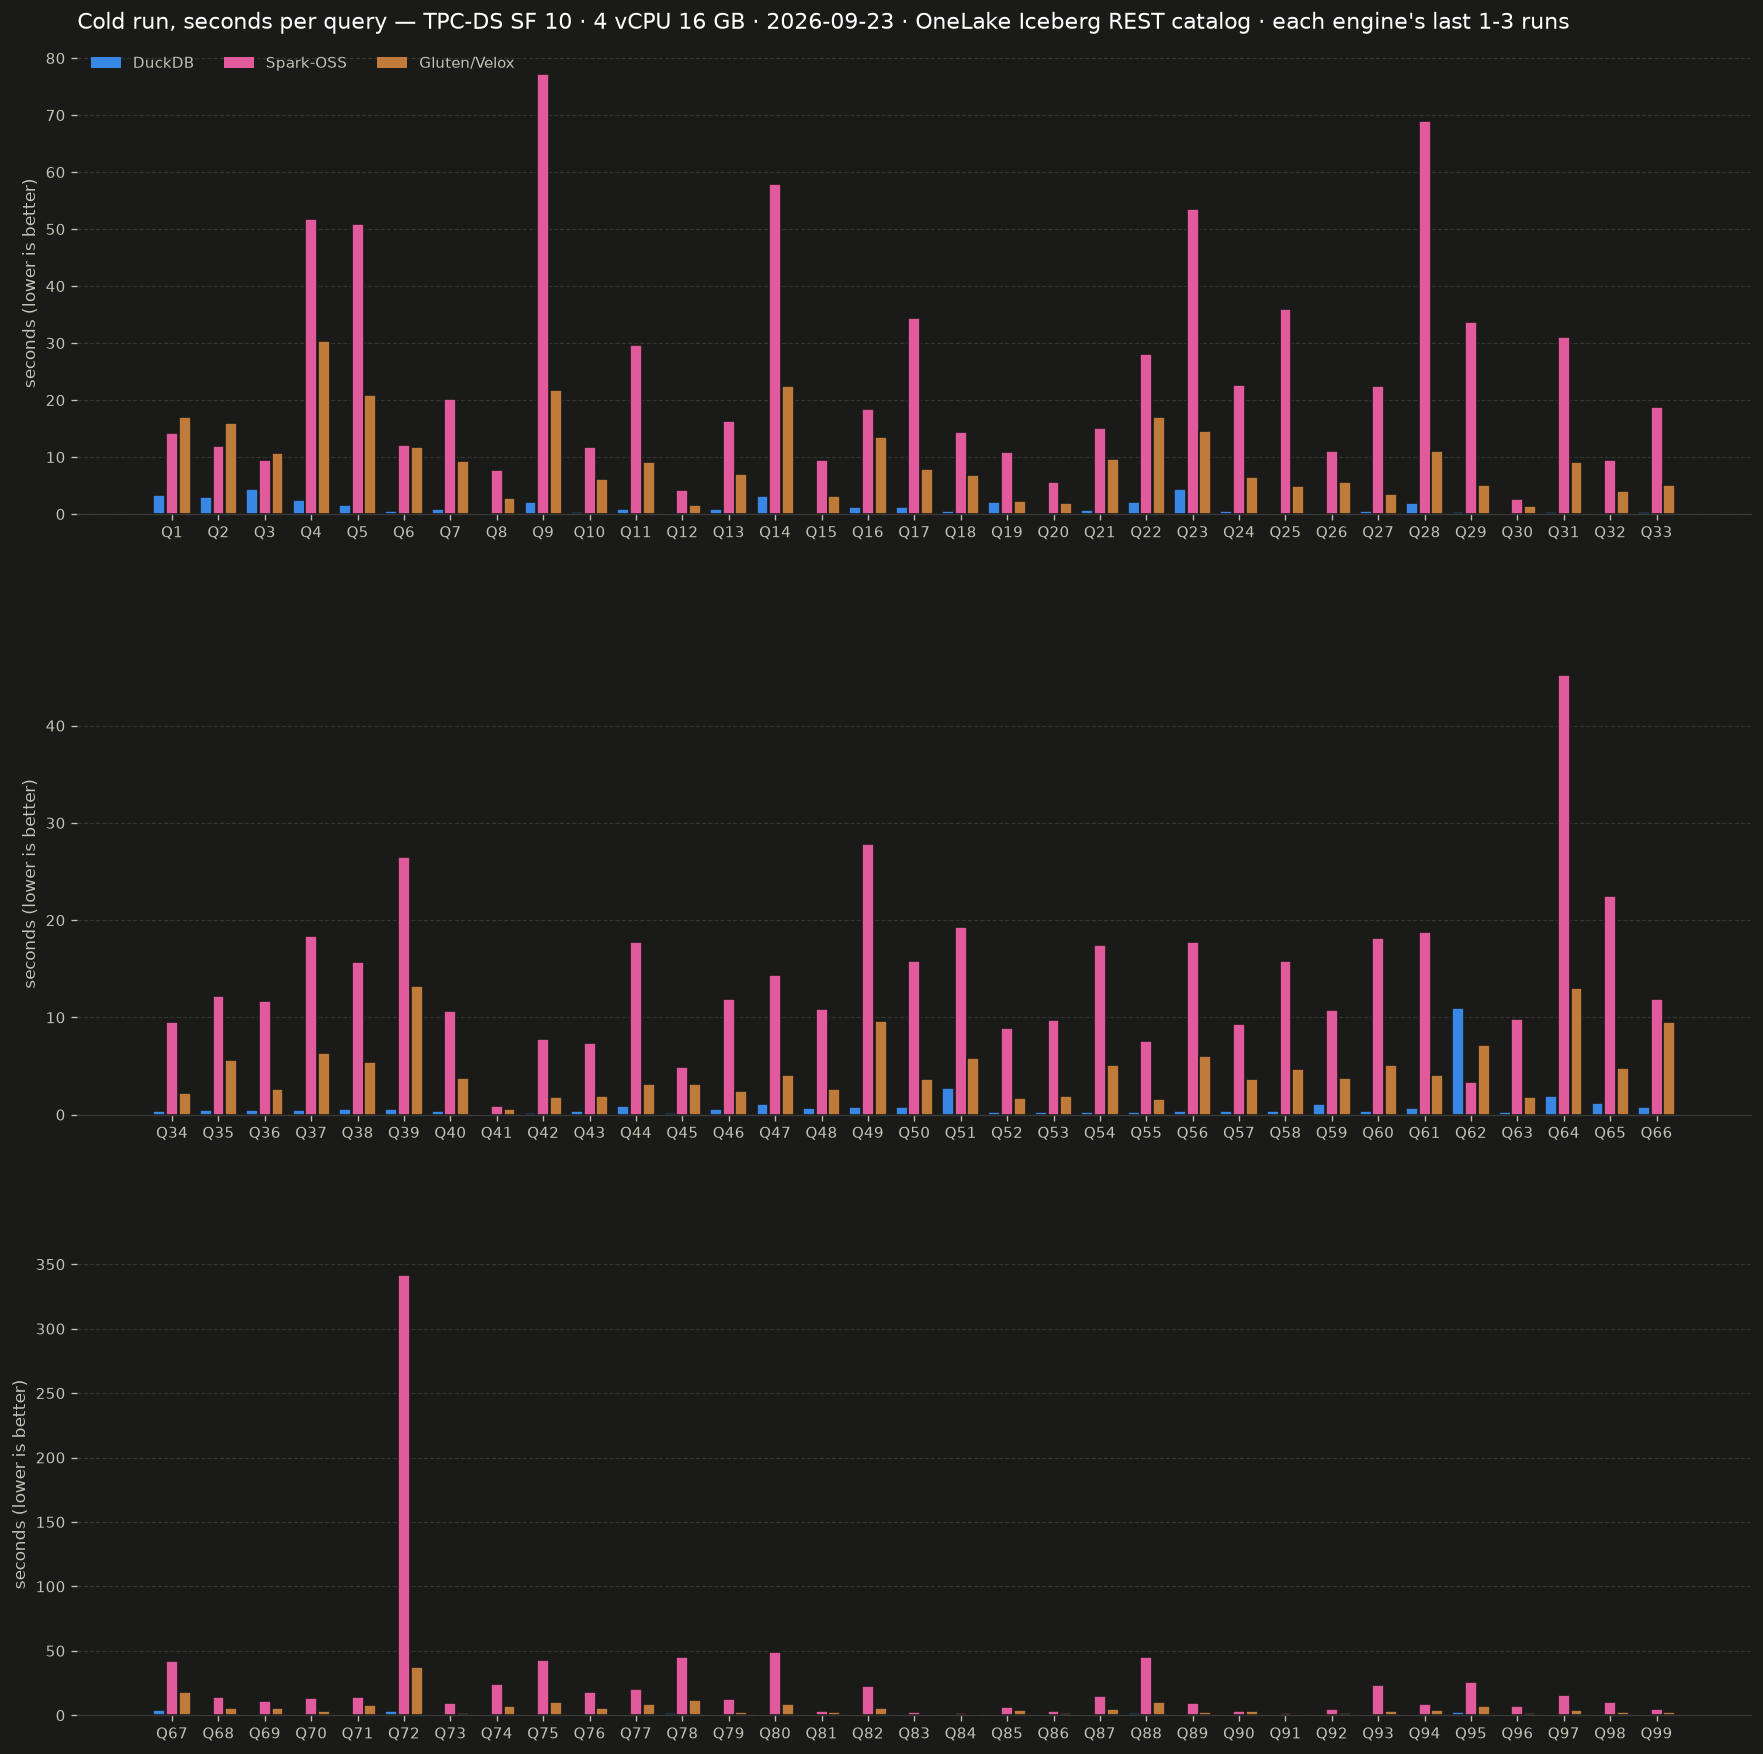
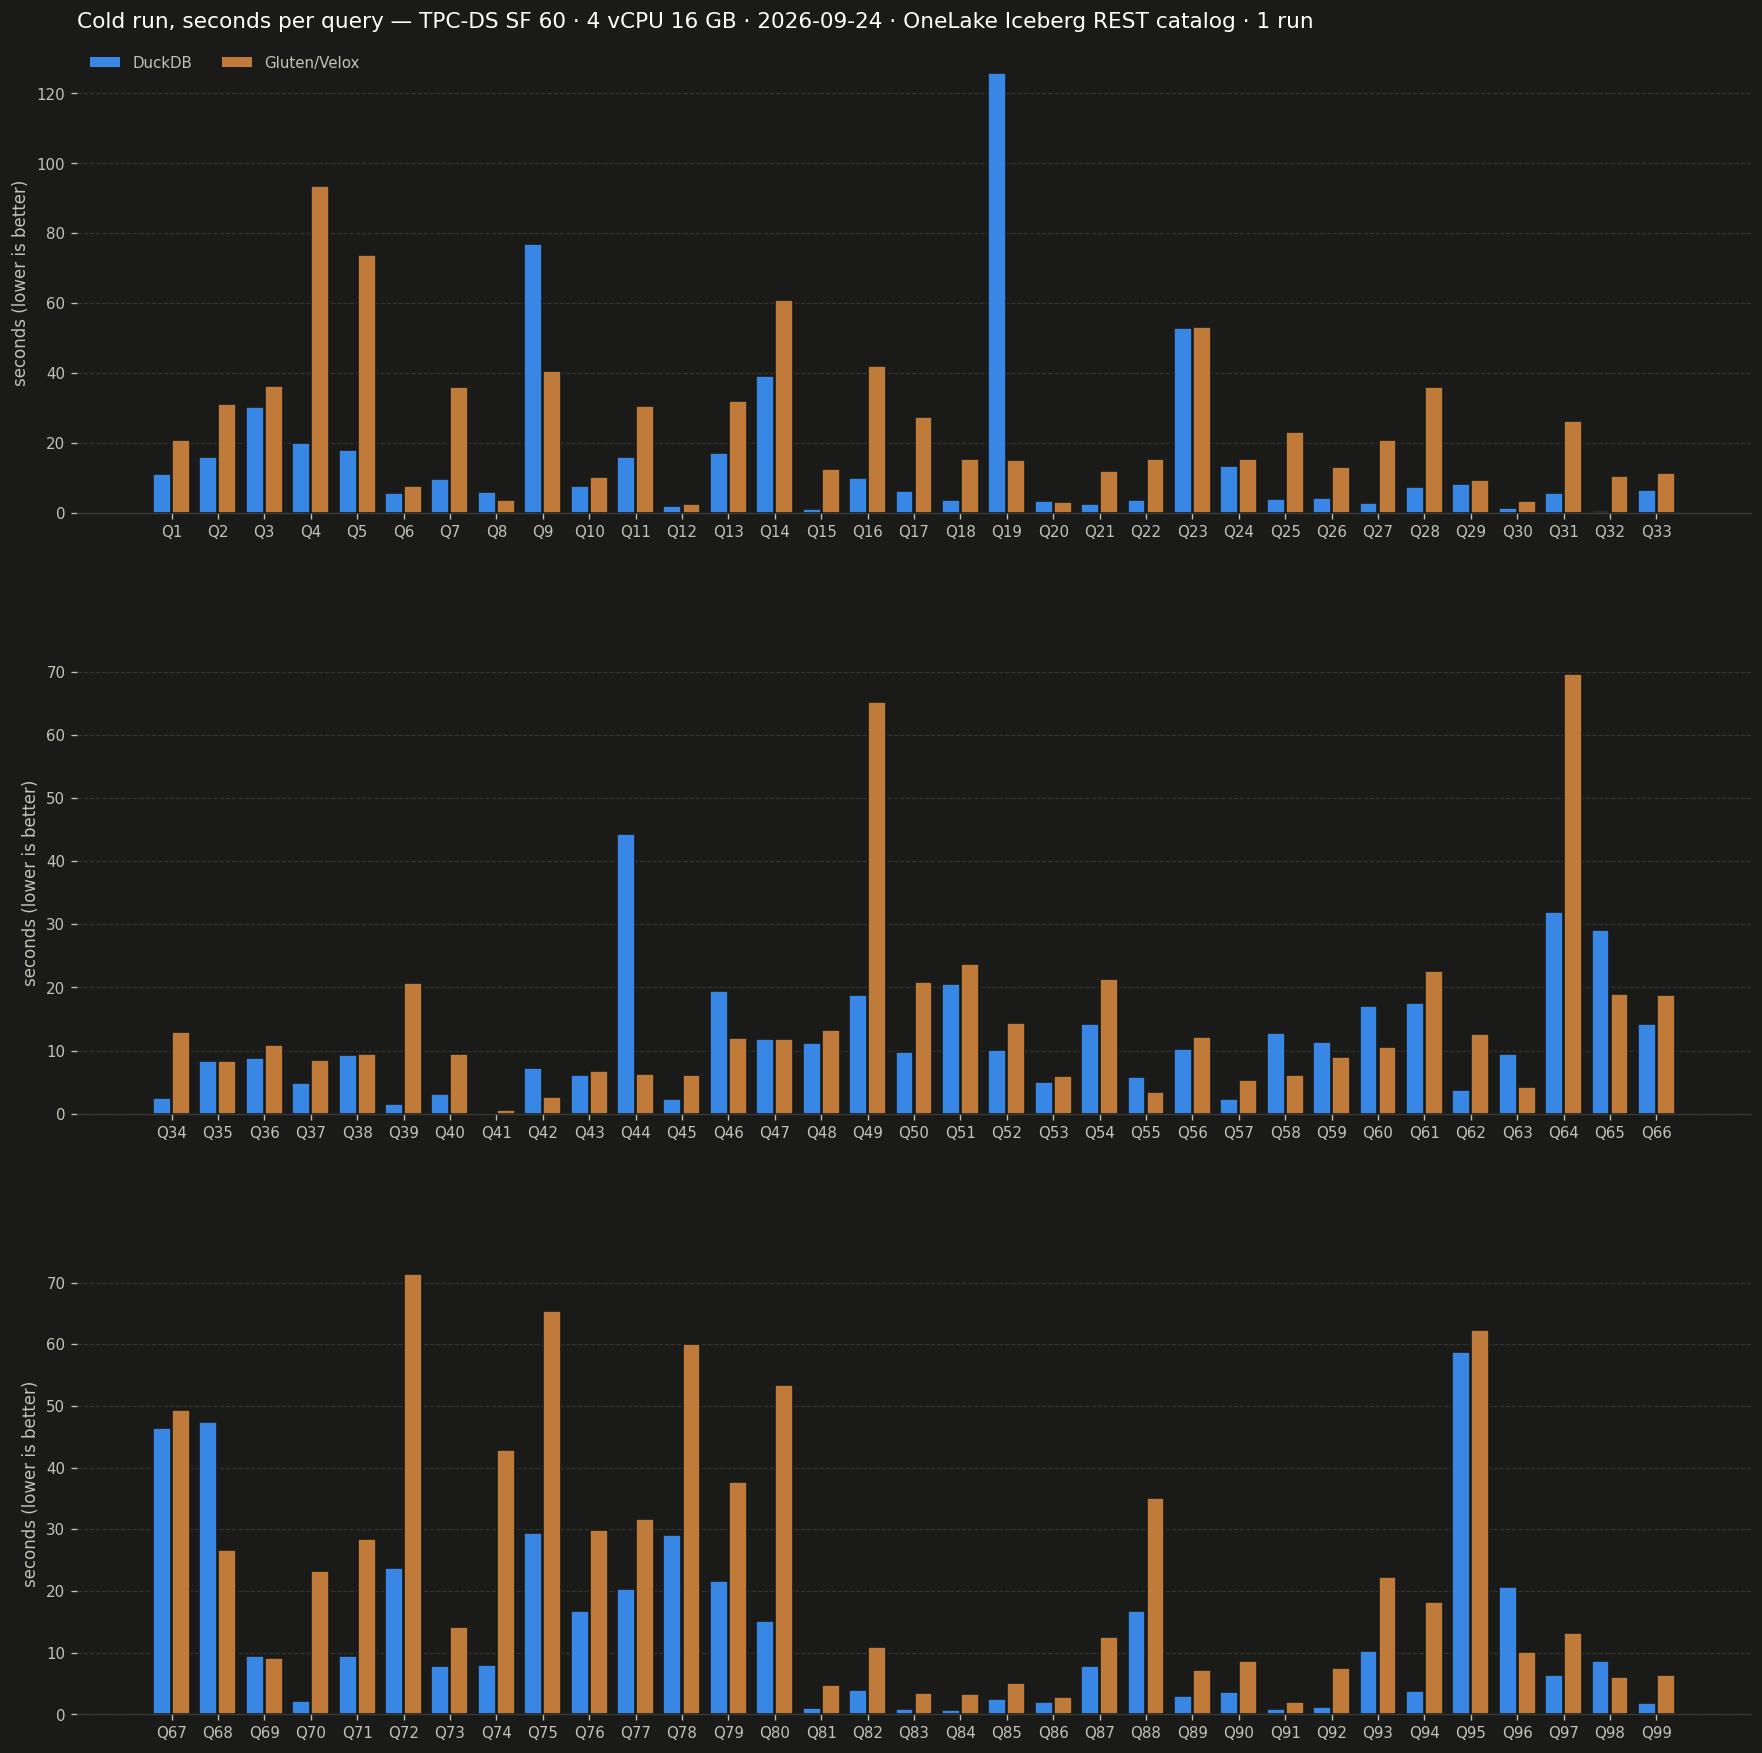
tpcds: the headline is SF=60, cold only
HEADLINE_SF 10 -> 60, and tpcds.yml defaults to it. SF=60 is the
largest a 16 GB runner gets through, and it does not fit in memory, so
the engines are measured reading OneLake rather than their caches.

publish drops every row outside the suite's PASSES from the headline:
older TPC-DS runs still carry warm rows. RESULTS.md loses its Warm
column, the totals chart centres a single cold bar, the trend chart
drops its cold/warm key when there is no warm, and the stale warm
per-query and SF=10 trend PNGs are removed. Docs re-rendered from run
35942277983.

diff --git a/.github/scripts/publish.py b/.github/scripts/publish.py
@@ -75,20 +75,30 @@ def summarize(run: Run, engines: tuple[str, ...]) -> list[dict]:
     return sorted(out, key=lambda r: r["cold"] if r["cold"] else float("inf"))
 
 
-def _table(rows: list[dict]) -> list[str]:
+def _table(rows: list[dict], passes: tuple[str, ...] = ("cold", "warm")) -> list[str]:
+    """One column per pass the suite runs: TPC-DS has no warm column at all."""
+    totals = " | ".join(f"{p.capitalize()} total" for p in passes)
     lines = [
-        "| Engine | Version | Cold total | Warm total | Attach | Failed queries |",
-        "|---|---|---:|---:|---:|---|",
+        f"| Engine | Version | {totals} | Attach | Failed queries |",
+        "|---|---|" + "---:|" * len(passes) + "---:|---|",
     ]
     for row in rows:
         failed = ", ".join(f"Q{q}" for q in row["failed"]) if row["failed"] else "—"
-        cold = f"{row['cold']:,.1f}s" if row["cold"] else "—"
-        warm = f"{row['warm']:,.1f}s" if row["warm"] else "—"
+        cells = " | ".join(f"{row[p]:,.1f}s" if row[p] else "—" for p in passes)
         setup = f"{row['setup']:,.1f}s" if row["setup"] else "—"
-        lines.append(
-            f"| {row['label']} | `{row['version']}` | {cold} | {warm} | {setup} | {failed} |"
-        )
+        lines.append(f"| {row['label']} | `{row['version']}` | {cells} | {setup} | {failed} |")
     return lines
+
+
+def only_passes(run: Run, passes: tuple[str, ...]) -> Run:
+    """`run` with every row outside the suite's passes dropped.
+
+    TPC-DS ran cold then warm until it went to one pass; its older runs still carry warm rows,
+    and the headline must not show a pass the suite no longer runs.
+    """
+    for result in run.engines.values():
+        result.rows = [r for r in result.rows if r.run_type in passes]
+    return run
 
 
 def _rel(target: Path, start: Path) -> str:
@@ -117,11 +127,16 @@ def write_results_md(run: Run, rows: list[dict], table, path: Path, suite) -> No
         "",
         "Each engine's most recent run at this scale; the newest run may not include every engine.",
         "",
-        *_table(rows),
+        *_table(rows, suite.PASSES),
         "",
-        f"Cold = first pass after attaching the catalog. Warm = the identical {suite.N_QUERIES} "
-        "statements run again immediately. Attach is timed separately and excluded from both "
-        "totals.",
+        (
+            f"Cold = first pass after attaching the catalog. Warm = the identical "
+            f"{suite.N_QUERIES} statements run again immediately. Attach is timed separately and "
+            "excluded from both totals."
+            if "warm" in suite.PASSES
+            else "One cold pass, the first after attaching the catalog. Attach is timed "
+            "separately and excluded from the total."
+        ),
         "",
     ]
 
@@ -191,7 +206,12 @@ def write_headline_docs(run: Run, rows: list[dict], table, suite) -> None:
     import pyarrow.compute as pc
 
     docs = Path(suite.DOCS_DIR)
-    shown = table.filter(pc.is_in(table["engine"], value_set=pa.array(list(suite.ENGINES))))
+    shown = table.filter(
+        pc.and_(
+            pc.is_in(table["engine"], value_set=pa.array(list(suite.ENGINES))),
+            pc.is_in(table["run_type"], value_set=pa.array(list(suite.PASSES))),
+        )
+    )
     subtitle = (
         f"{suite.TITLE} SF {run.sf} · {run.cpu} vCPU {run.mem_gb:.0f} GB · "
         f"{run.run_started_at[:10]} · OneLake Iceberg REST catalog"
@@ -217,7 +237,7 @@ def write_step_summary(run: Run, rows: list[dict], suite) -> None:
     lines = [
         f"## {suite.TITLE} SF {run.sf} — {run.cpu} vCPU, {run.mem_gb} GB",
         "",
-        *_table(rows),
+        *_table(rows, suite.PASSES),
         "",
         f"`{run.run_started_at}` · commit `{run.git_sha}`",
     ]
@@ -256,6 +276,7 @@ def main() -> int:
     # (the JSON above, the CSV, the step summary) and rewrites neither. etl_publish.py says why.
     if sf == suite.HEADLINE_SF:
         latest = latest_per_engine(results_dir, sf, suite.ENGINES, run)
+        latest = only_passes(latest, suite.PASSES)
         write_headline_docs(latest, summarize(latest, suite.ENGINES), table, suite)
     else:
         print(

diff --git a/bench/tpch/charts.py b/bench/tpch/charts.py
@@ -208,8 +208,14 @@ def totals(con, sf: int, out_dir: Path, subtitle: str, n_queries: int = 22) -> l
     for theme in THEMES.values():
         fig, ax = plt.subplots(figsize=(11, 1.1 * len(order) + 2.2))
         height = 0.36
+        # One bar per engine, centred, when there is no warm pass (TPC-DS runs cold only).
+        slots = (
+            ((height / 2, "cold", 1.0), (-height / 2, "warm", 0.55))
+            if any("warm" in values for values in by_engine.values())
+            else ((0.0, "cold", 1.0),)
+        )
         for index, engine in enumerate(order):
-            for offset, run_type, alpha in ((height / 2, "cold", 1.0), (-height / 2, "warm", 0.55)):
+            for offset, run_type, alpha in slots:
                 value = by_engine[engine].get(run_type)
                 if value is None:
                     continue
@@ -292,14 +298,15 @@ def trend(con, sf: int, out_dir: Path, subtitle: str, test: str = "tpch") -> lis
         present = [e for e in ENGINES if any(k[0] == e for k in series)]
         _legend(ax, theme, present)
         # The second encoding: line style, so cold/warm is not carried by opacity alone.
-        ax.text(
-            0.0,
-            -0.16,
-            "solid = cold   ·   dashed = warm",
-            transform=ax.transAxes,
-            fontsize=9,
-            color=theme["secondary"],
-        )
+        if any(k[1] == "warm" for k in series):
+            ax.text(
+                0.0,
+                -0.16,
+                "solid = cold   ·   dashed = warm",
+                transform=ax.transAxes,
+                fontsize=9,
+                color=theme["secondary"],
+            )
         plt.setp(ax.get_xticklabels(), rotation=45, ha="right")
         paths.append(_save(fig, out_dir, "trend", theme))
     return paths

diff --git a/bench/tpcds/config.py b/bench/tpcds/config.py
@@ -88,9 +88,10 @@ TABLES = (
 # makes a 30% error here change nothing.
 PARQUET_MB_PER_SF = 300
 
-# The scale the headline docs are built at, and tpcds.yml's default. SF=30, 60 and 100 run too
-# (tpcds.yml frees the runner's hidden disk for them) and are recorded, not charted.
-HEADLINE_SF = 10
+# The scale the headline docs are built at, and tpcds.yml's default. SF=60, the largest a 16 GB
+# runner gets through: 20 GiB of parquet that does not fit in memory, so the engines are measured
+# reading OneLake, not their caches. SF=1, 10, 30 and 100 run too and are recorded, not charted.
+HEADLINE_SF = 60
 
 
 @dataclass(frozen=True)

diff --git a/docs/tpcds/RESULTS.md b/docs/tpcds/RESULTS.md
@@ -1,129 +1,128 @@
 # Results
 
-TPC-DS-like, scale factor 10, 99 queries, on 4 vCPU / 15.6 GB (linux-6.17.0-1022-azure, Python 3.12.14).
+TPC-DS-like, scale factor 60, 99 queries, on 4 vCPU / 15.6 GB (linux-6.17.0-1022-azure, Python 3.12.14).
 
-Last run: `2026-09-23T05:36:23Z` · commit `6c87cf7` · [Actions run](https://github.com/djouallah/lakehouse_benchmark/actions/runs/35822560765)
+Last run: `2026-09-24T01:19:48Z` · commit `11b3ebc` · [Actions run](https://github.com/djouallah/lakehouse_benchmark/actions/runs/35942277983)
 
 ## Latest run
 
 Each engine's most recent run at this scale; the newest run may not include every engine.
 
-| Engine | Version | Cold total | Warm total | Attach | Failed queries |
-|---|---|---:|---:|---:|---|
-| DuckDB | `2.0.0.dev2609221243` | 105.3s | 67.7s | 2.6s | — |
-| Gluten/Velox | `4.1.1 + iceberg Apache Iceberg 1.11.0 (commit 6976e020b894f6a6777704df2b8c4458cb291ae9)` | 586.2s | 435.6s | 31.2s | — |
-| Spark-OSS | `4.1.3 + iceberg Apache Iceberg 1.11.0 (commit 6976e020b894f6a6777704df2b8c4458cb291ae9)` | 2,170.3s | 1,843.0s | 20.3s | — |
+| Engine | Version | Cold total | Attach | Failed queries |
+|---|---|---:|---:|---|
+| DuckDB | `2.0.0.dev2609222040` | 1,367.0s | 6.7s | — |
+| Gluten/Velox | `4.1.1 + iceberg Apache Iceberg 1.11.0 (commit 6976e020b894f6a6777704df2b8c4458cb291ae9)` | 2,117.1s | 39.3s | — |
 
-Cold = first pass after attaching the catalog. Warm = the identical 99 statements run again immediately. Attach is timed separately and excluded from both totals.
+One cold pass, the first after attaching the catalog. Attach is timed separately and excluded from the total.
 
 ## Per query, latest run
 
 Seconds, cold pass. `—` means the query failed; see Failures above.
 
-| Query | DuckDB | Gluten/Velox | Spark-OSS |
-|---|---|---|---|
-| Q1 | 2.11 | 14.70 | 14.16 |
-| Q2 | 3.04 | 14.10 | 11.88 |
-| Q3 | 4.31 | 8.68 | 9.50 |
-| Q4 | 2.39 | 25.47 | 51.84 |
-| Q5 | 1.23 | 18.48 | 50.93 |
-| Q6 | 0.48 | 4.05 | 12.05 |
-| Q7 | 0.94 | 8.77 | 20.25 |
-| Q8 | 0.25 | 2.34 | 7.76 |
-| Q9 | 2.01 | 18.72 | 77.21 |
-| Q10 | 0.29 | 5.46 | 11.84 |
-| Q11 | 0.97 | 8.12 | 29.76 |
-| Q12 | 0.14 | 1.41 | 4.18 |
-| Q13 | 0.84 | 4.99 | 16.32 |
-| Q14 | 3.23 | 19.72 | 57.86 |
-| Q15 | 0.10 | 2.64 | 9.49 |
-| Q16 | 0.80 | 11.90 | 18.41 |
-| Q17 | 1.05 | 6.88 | 34.40 |
-| Q18 | 0.53 | 6.10 | 14.41 |
-| Q19 | 2.02 | 2.05 | 10.87 |
-| Q20 | 0.07 | 1.68 | 5.61 |
-| Q21 | 0.47 | 9.06 | 15.18 |
-| Q22 | 2.32 | 14.74 | 28.07 |
-| Q23 | 4.41 | 13.14 | 53.52 |
-| Q24 | 0.59 | 6.20 | 22.65 |
-| Q25 | 0.24 | 4.00 | 36.05 |
-| Q26 | 0.24 | 5.26 | 11.15 |
-| Q27 | 0.46 | 3.26 | 22.45 |
-| Q28 | 1.88 | 9.57 | 68.93 |
-| Q29 | 0.36 | 4.54 | 33.68 |
-| Q30 | 0.24 | 1.09 | 2.68 |
-| Q31 | 0.41 | 7.80 | 31.13 |
-| Q32 | 0.05 | 3.68 | 9.52 |
-| Q33 | 0.41 | 4.44 | 18.82 |
-| Q34 | 0.33 | 1.87 | 9.58 |
-| Q35 | 0.50 | 4.69 | 12.18 |
-| Q36 | 0.46 | 2.29 | 11.67 |
-| Q37 | 0.22 | 5.56 | 18.42 |
-| Q38 | 0.61 | 4.65 | 15.73 |
-| Q39 | 0.61 | 11.13 | 26.53 |
-| Q40 | 0.46 | 2.94 | 10.62 |
-| Q41 | 0.04 | 0.42 | 0.90 |
-| Q42 | 0.22 | 1.37 | 7.77 |
-| Q43 | 0.36 | 1.76 | 7.36 |
-| Q44 | 0.85 | 2.96 | 17.77 |
-| Q45 | 0.15 | 3.16 | 4.95 |
-| Q46 | 0.53 | 2.14 | 11.89 |
-| Q47 | 1.10 | 3.72 | 14.37 |
-| Q48 | 0.63 | 2.22 | 10.91 |
-| Q49 | 0.96 | 8.30 | 27.89 |
-| Q50 | 0.85 | 3.15 | 15.80 |
-| Q51 | 2.74 | 5.23 | 19.32 |
-| Q52 | 0.24 | 1.60 | 8.96 |
-| Q53 | 0.32 | 1.68 | 9.73 |
-| Q54 | 0.32 | 4.37 | 17.45 |
-| Q55 | 0.23 | 1.50 | 7.57 |
-| Q56 | 0.38 | 5.50 | 17.74 |
-| Q57 | 0.39 | 3.09 | 9.33 |
-| Q58 | 0.36 | 4.19 | 15.79 |
-| Q59 | 1.15 | 3.29 | 10.72 |
-| Q60 | 0.42 | 4.44 | 18.21 |
-| Q61 | 0.72 | 3.53 | 18.82 |
-| Q62 | 21.57 | 8.20 | 3.36 |
-| Q63 | 0.31 | 1.60 | 9.88 |
-| Q64 | 1.83 | 13.36 | 45.25 |
-| Q65 | 1.25 | 4.25 | 22.52 |
-| Q66 | 0.63 | 9.34 | 11.95 |
-| Q67 | 4.30 | 16.41 | 42.52 |
-| Q68 | 0.57 | 4.85 | 14.22 |
-| Q69 | 0.29 | 4.76 | 11.36 |
-| Q70 | 0.57 | 3.11 | 13.15 |
-| Q71 | 0.38 | 7.31 | 14.31 |
-| Q72 | 3.38 | 33.67 | 341.47 |
-| Q73 | 0.28 | 2.58 | 9.66 |
-| Q74 | 0.73 | 6.31 | 24.08 |
-| Q75 | 0.96 | 9.22 | 42.76 |
-| Q76 | 0.56 | 4.89 | 18.29 |
-| Q77 | 0.54 | 7.41 | 20.64 |
-| Q78 | 1.83 | 10.76 | 45.41 |
-| Q79 | 0.56 | 1.89 | 12.99 |
-| Q80 | 0.66 | 7.04 | 49.20 |
-| Q81 | 0.17 | 2.13 | 3.33 |
-| Q82 | 0.19 | 4.43 | 22.39 |
-| Q83 | 0.10 | 1.02 | 2.63 |
-| Q84 | 0.10 | 0.93 | 1.70 |
-| Q85 | 0.32 | 3.31 | 6.80 |
-| Q86 | 0.12 | 1.46 | 3.04 |
-| Q87 | 0.68 | 4.30 | 14.89 |
-| Q88 | 1.67 | 8.74 | 44.97 |
-| Q89 | 0.34 | 1.92 | 9.55 |
-| Q90 | 0.12 | 2.57 | 3.74 |
-| Q91 | 0.14 | 0.93 | 1.81 |
-| Q92 | 0.11 | 1.89 | 5.05 |
-| Q93 | 0.44 | 3.14 | 23.54 |
-| Q94 | 0.11 | 3.47 | 9.12 |
-| Q95 | 2.99 | 6.25 | 26.03 |
-| Q96 | 0.22 | 1.12 | 6.94 |
-| Q97 | 0.71 | 3.66 | 16.01 |
-| Q98 | 0.35 | 1.95 | 10.09 |
-| Q99 | 0.18 | 2.25 | 5.11 |
+| Query | DuckDB | Gluten/Velox |
+|---|---|---|
+| Q1 | 11.26 | 21.01 |
+| Q2 | 15.93 | 31.22 |
+| Q3 | 30.28 | 36.28 |
+| Q4 | 20.00 | 93.60 |
+| Q5 | 18.00 | 73.70 |
+| Q6 | 5.87 | 7.70 |
+| Q7 | 9.62 | 36.04 |
+| Q8 | 6.06 | 3.66 |
+| Q9 | 77.04 | 40.72 |
+| Q10 | 7.69 | 10.28 |
+| Q11 | 16.00 | 30.63 |
+| Q12 | 2.01 | 2.70 |
+| Q13 | 17.32 | 31.93 |
+| Q14 | 39.09 | 60.94 |
+| Q15 | 1.22 | 12.63 |
+| Q16 | 10.12 | 42.01 |
+| Q17 | 6.40 | 27.43 |
+| Q18 | 3.74 | 15.61 |
+| Q19 | 125.78 | 15.16 |
+| Q20 | 3.51 | 3.29 |
+| Q21 | 2.52 | 11.97 |
+| Q22 | 3.65 | 15.36 |
+| Q23 | 52.78 | 53.12 |
+| Q24 | 13.36 | 15.61 |
+| Q25 | 4.14 | 23.08 |
+| Q26 | 4.19 | 13.25 |
+| Q27 | 3.03 | 20.98 |
+| Q28 | 7.48 | 36.19 |
+| Q29 | 8.21 | 9.55 |
+| Q30 | 1.43 | 3.40 |
+| Q31 | 5.76 | 26.28 |
+| Q32 | 0.67 | 10.62 |
+| Q33 | 6.64 | 11.40 |
+| Q34 | 2.43 | 12.98 |
+| Q35 | 8.43 | 8.40 |
+| Q36 | 8.77 | 10.93 |
+| Q37 | 4.84 | 8.55 |
+| Q38 | 9.28 | 9.44 |
+| Q39 | 1.57 | 20.68 |
+| Q40 | 3.11 | 9.50 |
+| Q41 | 0.11 | 0.51 |
+| Q42 | 7.27 | 2.60 |
+| Q43 | 6.07 | 6.72 |
+| Q44 | 44.36 | 6.28 |
+| Q45 | 2.38 | 6.08 |
+| Q46 | 19.42 | 11.93 |
+| Q47 | 11.84 | 11.88 |
+| Q48 | 11.19 | 13.23 |
+| Q49 | 18.73 | 65.21 |
+| Q50 | 9.76 | 20.83 |
+| Q51 | 20.57 | 23.65 |
+| Q52 | 10.06 | 14.36 |
+| Q53 | 4.97 | 5.97 |
+| Q54 | 14.18 | 21.32 |
+| Q55 | 5.76 | 3.51 |
+| Q56 | 10.33 | 12.13 |
+| Q57 | 2.27 | 5.35 |
+| Q58 | 12.73 | 6.12 |
+| Q59 | 11.40 | 9.04 |
+| Q60 | 17.11 | 10.59 |
+| Q61 | 17.56 | 22.67 |
+| Q62 | 3.80 | 12.67 |
+| Q63 | 9.39 | 4.24 |
+| Q64 | 31.93 | 69.68 |
+| Q65 | 29.02 | 18.97 |
+| Q66 | 14.18 | 18.79 |
+| Q67 | 46.41 | 49.34 |
+| Q68 | 47.34 | 26.68 |
+| Q69 | 9.49 | 9.15 |
+| Q70 | 2.09 | 23.18 |
+| Q71 | 9.47 | 28.36 |
+| Q72 | 23.69 | 71.33 |
+| Q73 | 7.84 | 14.13 |
+| Q74 | 8.03 | 42.80 |
+| Q75 | 29.39 | 65.42 |
+| Q76 | 16.77 | 29.86 |
+| Q77 | 20.40 | 31.66 |
+| Q78 | 29.13 | 60.05 |
+| Q79 | 21.57 | 37.62 |
+| Q80 | 15.16 | 53.34 |
+| Q81 | 0.97 | 4.72 |
+| Q82 | 4.02 | 10.95 |
+| Q83 | 0.94 | 3.45 |
+| Q84 | 0.62 | 3.33 |
+| Q85 | 2.55 | 5.11 |
+| Q86 | 2.05 | 2.85 |
+| Q87 | 7.77 | 12.61 |
+| Q88 | 16.77 | 35.12 |
+| Q89 | 3.03 | 7.18 |
+| Q90 | 3.64 | 8.65 |
+| Q91 | 0.79 | 2.00 |
+| Q92 | 1.14 | 7.54 |
+| Q93 | 10.19 | 22.25 |
+| Q94 | 3.77 | 18.16 |
+| Q95 | 58.79 | 62.35 |
+| Q96 | 20.71 | 10.11 |
+| Q97 | 6.42 | 13.23 |
+| Q98 | 8.57 | 6.08 |
+| Q99 | 1.88 | 6.36 |
 
 ## History
 
-1,194 timed statements across 5 runs.
+800 timed statements across 6 runs.
 Raw data: one immutable JSON per run under [`results/tpcds/`](../../results/tpcds/), flattened to [`data/tpcds_results.csv`](../data/tpcds_results.csv).
 
